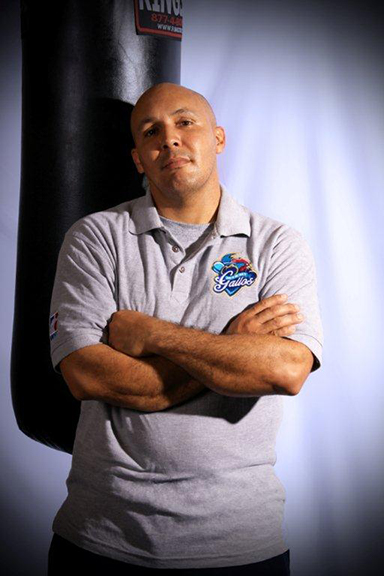
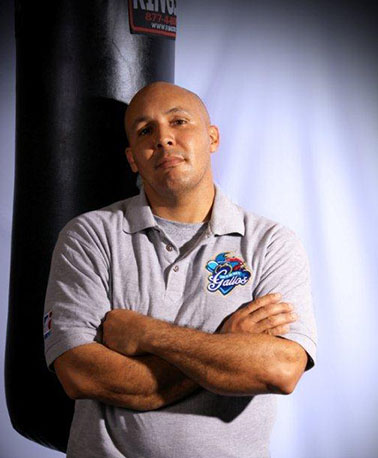
Update headshot image

diff --git a/about/index.html b/about/index.html
@@ -82,7 +82,7 @@
         </div>
         <div class="founder">
           <h4>Our Founder</h4>
-          <img src="../img/headshot.jpg" alt="Francisco Angel Nazario Headshot" width="384" height="576"/>
+          <img src="../img/headshot.jpg" alt="Francisco Angel Nazario Headshot" width="378" height="458"/>
           <p>Francisco "Angel" Nazario founded the Heart & Soul Youth Re-Development Program in south Florida in 2010, and serves as executive director.</p>
           <p>Nazario strives to carry out the program's mission to introduce at-risk youth to amateur boxing, providing an alternative to criminal activity and gang involvement.</p>
           <p>Nazario is an active trainer for Olympic amateur boxing and professional boxers, as well as a volunteer amateur boxing official (referee, judge, timekeeper).</p>

diff --git a/css/main.css b/css/main.css
@@ -550,14 +550,12 @@ footer .content-wrapper {
 .mission img,
 .values img {
   border: 10px solid #f8f8ff;
-  margin: 25px;
   max-width: 300px;
   width: 100%;
 }
 
 .founder img {
   border: 10px solid #f8f8ff;
-  margin: 25px;
   max-width: 400px;
   width: 100%;
 }
